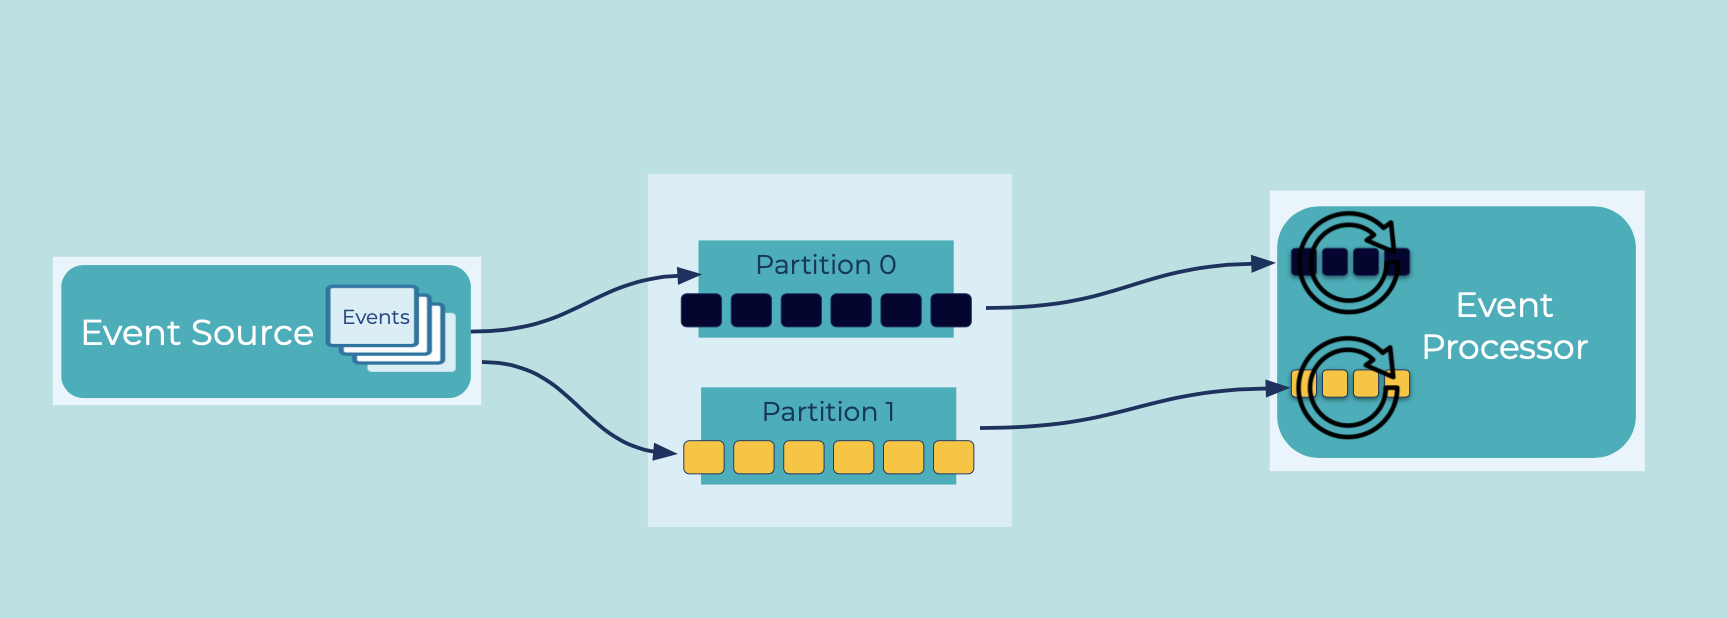
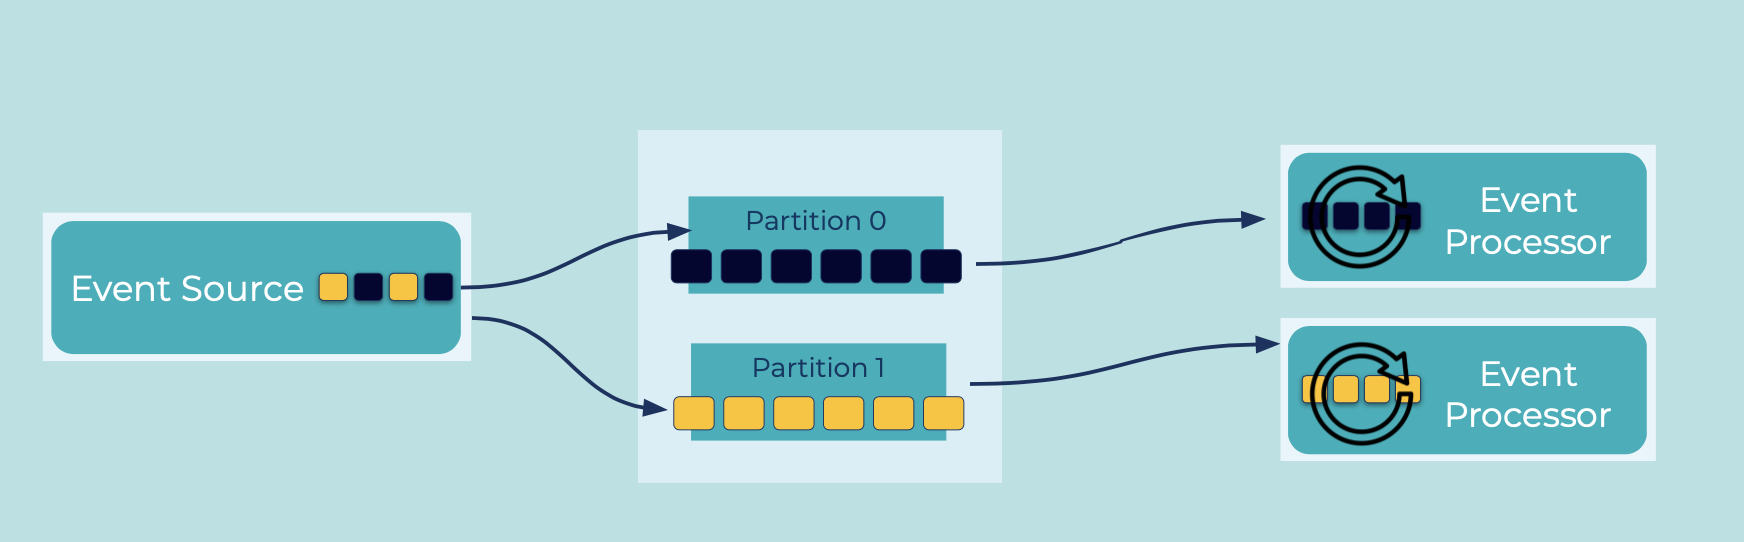
Tweak

Changed region(s): [[0.0, 0.2362, 0.9688, 0.9151], [0.8438, 0.679, 0.9062, 0.7085]]

diff --git a/docs/event-stream/partitioned-placement.md b/docs/event-stream/partitioned-placement.md
@@ -5,17 +5,17 @@ seo:
 ---
 
 # Partitioned Placement
-Applications utilizing an event streaming platform may want distributed consumption to handle the throughput or processing required.
+If service goals mandate high throughput, it is useful to have the ability to distribute event storage and consumption for parallel processing.
+Being able to distribute events and process them concurrently enables an application to scale.
 
 ## Problem
-How can events be placed into a stream or table so that they can be processed concurrently with a distributed [Event Processor](../event-processing/event-processor.md)?
+How can events be placed into a stream or table so that they can be processed concurrently by distributed [Event Processors](../event-processing/event-processor.md)?
 
 ## Solution
 ![partitioned-placement](../img/partitioned-placement.png)
 
-You can logically group events into a single topic, and the unit of parallelism within the topic is a partition.
-Partitions enable concurrent processing and help scalability in two ways:
-Partitions help scale in two ways:
+You can logically group events into a single topic, and then further group events into a topic partition.
+A partition is the unit of parallelism within a topic and enables concurrent processing, helping scalability in two main ways:
 
 1. Platform scalability: enables different brokers to store and serve events to consumer client applications concurrently
 2. Application scalability: enable different consumer applications to process those events concurrently
@@ -23,11 +23,11 @@ Partitions help scale in two ways:
 ## Implementation
 When a Kafka topic is created, either by an administrator or by a streaming application like ksqlDB, you can specific the number of partitions it has.
 Then events are placed into a specific partition and the partitioning algorithm can be based on different criteria.
-With Apache Kafka, it could be based on the event key, round-robin, or a custom partitioning algorithm.
-Using an event key or custom partitioning algorithm has the effect of placing all records with the same identity into the same partition, which has strong ordering guarantees.
+With Kafka, it could be based on the event key, round-robin to distribute all events across all partitions, or a custom partitioning algorithm.
+All events grouped into a partition has strong ordering guarantees.
 
 If we are using ksqlDB, the processors can scale by working on a set of partitions.
-If an event stream's key content changes because of how the query wants to process the rows (via `GROUP BY` or `PARTITION BY`), the underlying keys are recalculated, and the records are sent to a new partition in the new topic to perform the computation.
+If an event stream's key content changes because of how the query wants to process the rows (via `GROUP BY` or `PARTITION BY`), the underlying keys are recalculated, and the events are sent to a new partition in the new topic to perform the computation.
 
 ```
 CREATE STREAM stream_name
@@ -40,12 +40,12 @@ CREATE STREAM stream_name
 ```
 
 ## Considerations
-In general, a higher number of topic partitions results in higher throughput, and to maximize throughput, you want enough partitions to utilize all brokers in the cluster.
+In general, a higher number of topic partitions results in higher throughput, and to maximize throughput, we want enough partitions to utilize all brokers in the cluster.
 Although it might seem tempting just to create topics with a large number of partitions, there are tradeoffs to increasing the number of partitions.
-Be sure to choose the partition count carefully based on producer throughput and consumer throughput and benchmark performance in your environment.
-Also take into consideration the design of your data patterns and key assignments so that messages are distributed as evenly as possible across the topic partitions.
+Be sure to choose the partition count carefully based on producer throughput and consumer throughput and benchmark performance in the environment.
+Also take into consideration the design of data patterns and key assignments so that events are distributed as evenly as possible across the topic partitions.
 This will prevent certain topic partitions from getting overloaded relative to other topic partitions.
 
 ## References
 * [Review our guidelines](https://www.confluent.io/blog/how-choose-number-topics-partitions-kafka-cluster) for how to choose the number of partitions.
-* If you need another approach to parallelism that subdivides the unit of work from a partition down to a key or an event, see the [Parallel Consumer](https://github.com/confluentinc/parallel-consumer).
+* For another approach to parallelism that subdivides the unit of work from a partition down to a key or an event, see the [Parallel Consumer](https://github.com/confluentinc/parallel-consumer).
